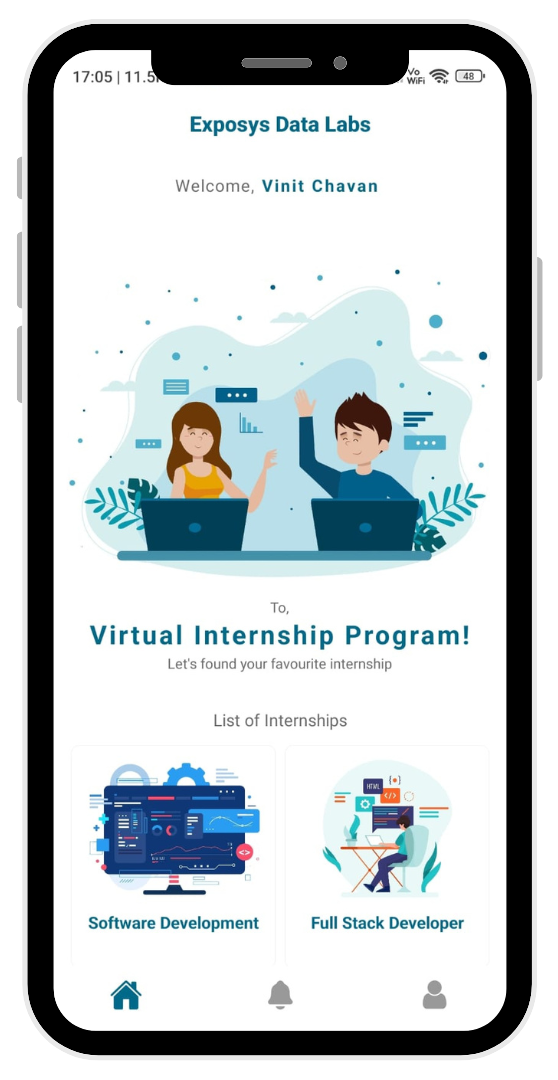
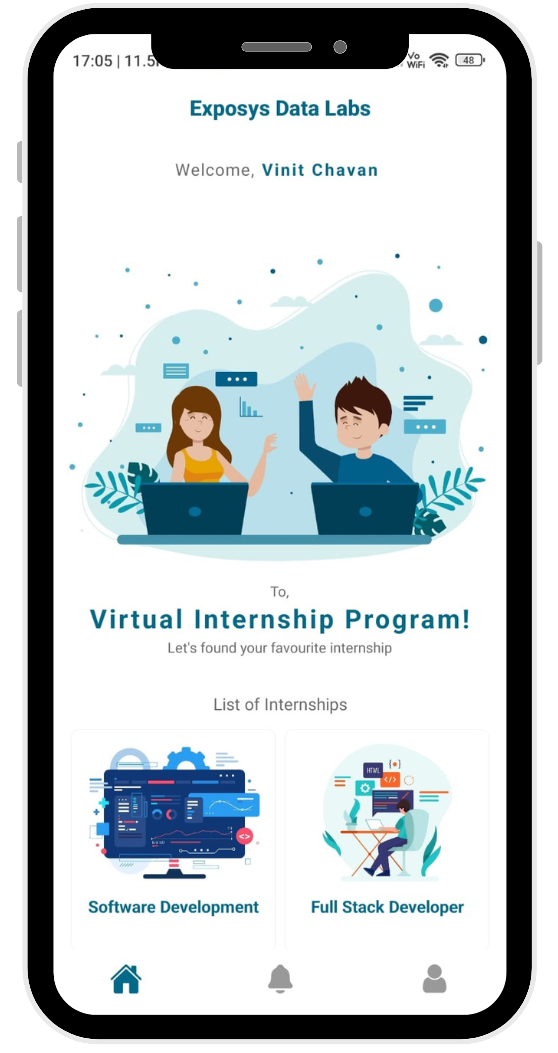
Changes in ProjectStyles.module.css

diff --git a/src/sections/projects/ProjectsStyles.module.css b/src/sections/projects/ProjectsStyles.module.css
@@ -21,10 +21,11 @@
 
      a {
           /* background-color:blueviolet; */
-          width: max-content;
           /* display: flex; */
           /* flex-wrap: wrap; */
-          width: 30rem;
+          /* width: max-content; */
+          width: 45%;
+          padding: 4px;
           text-decoration: none;
           color: #222;
           transition: transform 200ms ease-in-out;
@@ -33,6 +34,9 @@
           gap: 0.6rem;
 
           h3 {
+               /* background-color: antiquewhite;
+               width: max-content;
+               align-self: center; */
                font-size: 20px;
                font-weight: bolder;
           }
@@ -66,7 +70,9 @@
      .container {
           a {
                /* background-color: antiquewhite; */
-               width: 10rem;
+               /* width: 10rem; */
+               width: 80%;
+
 
                h3 {
                     font-size: 15px;
